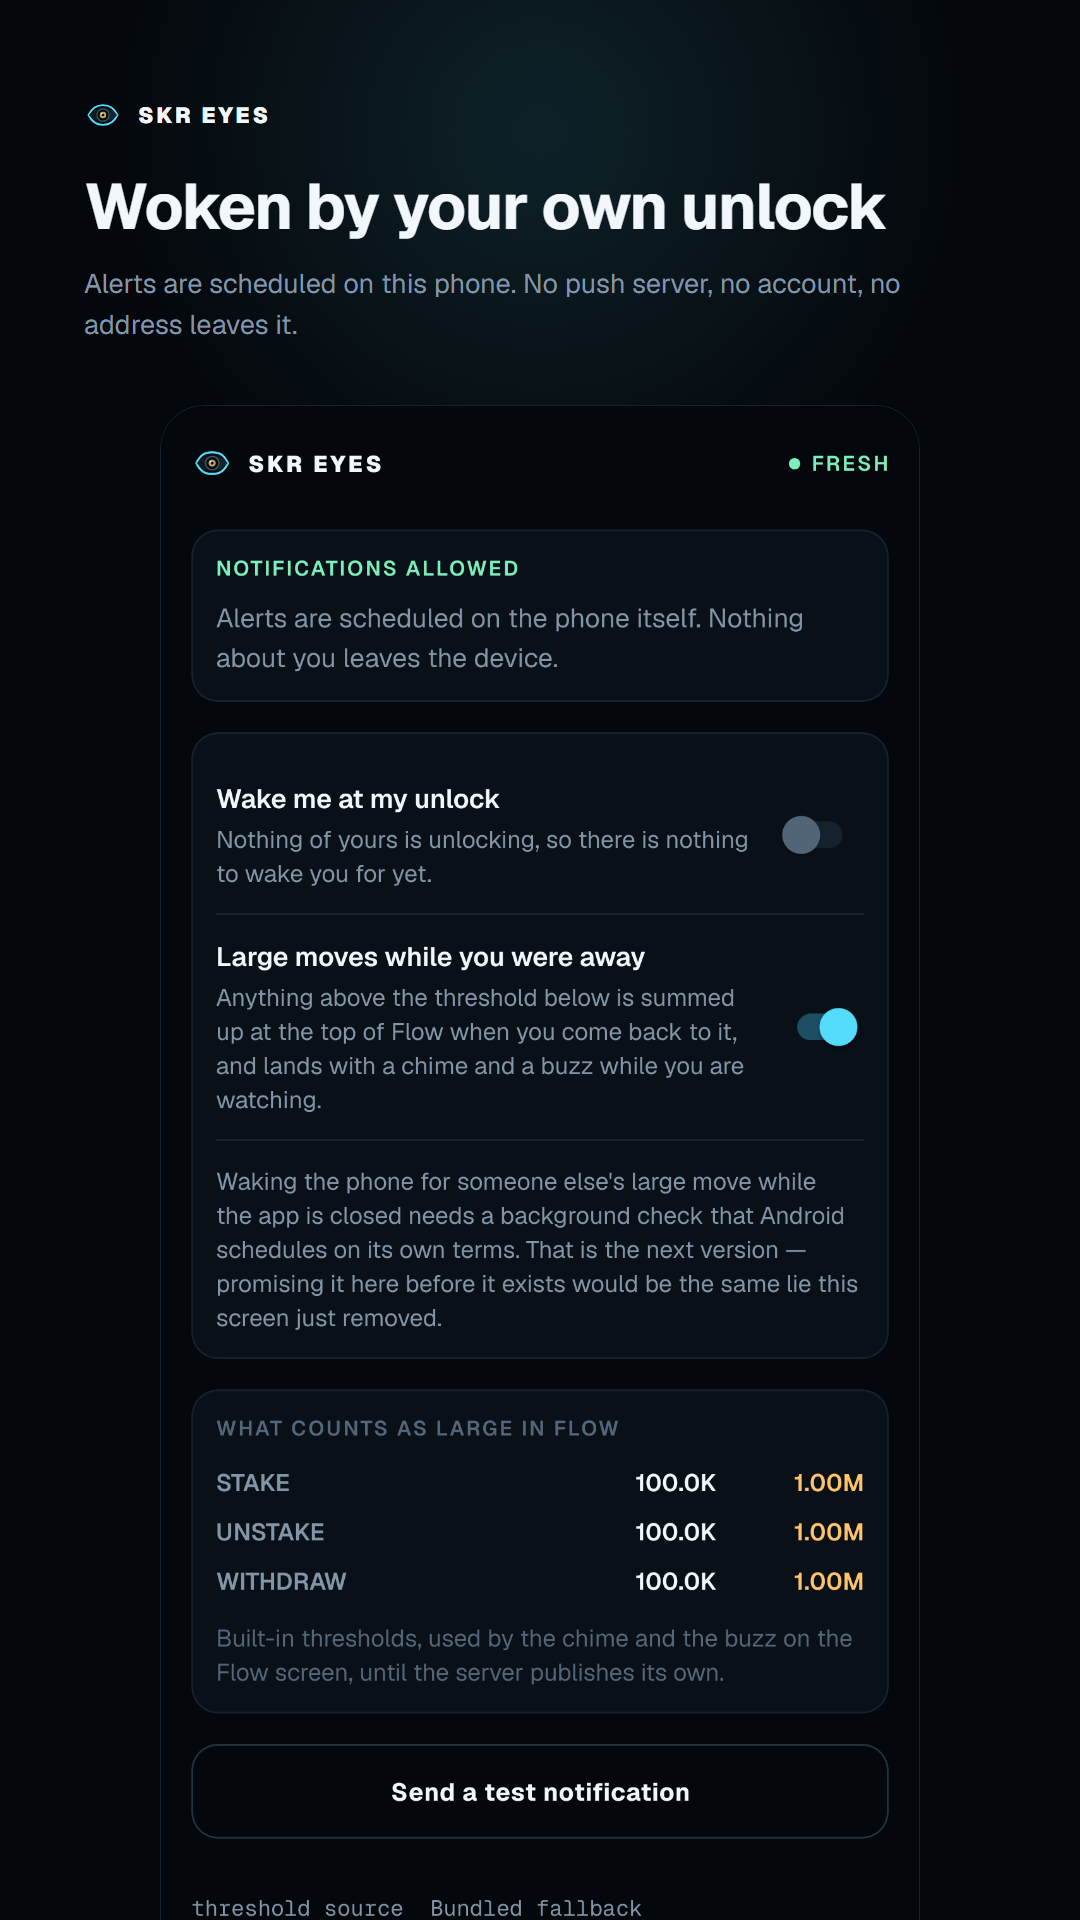
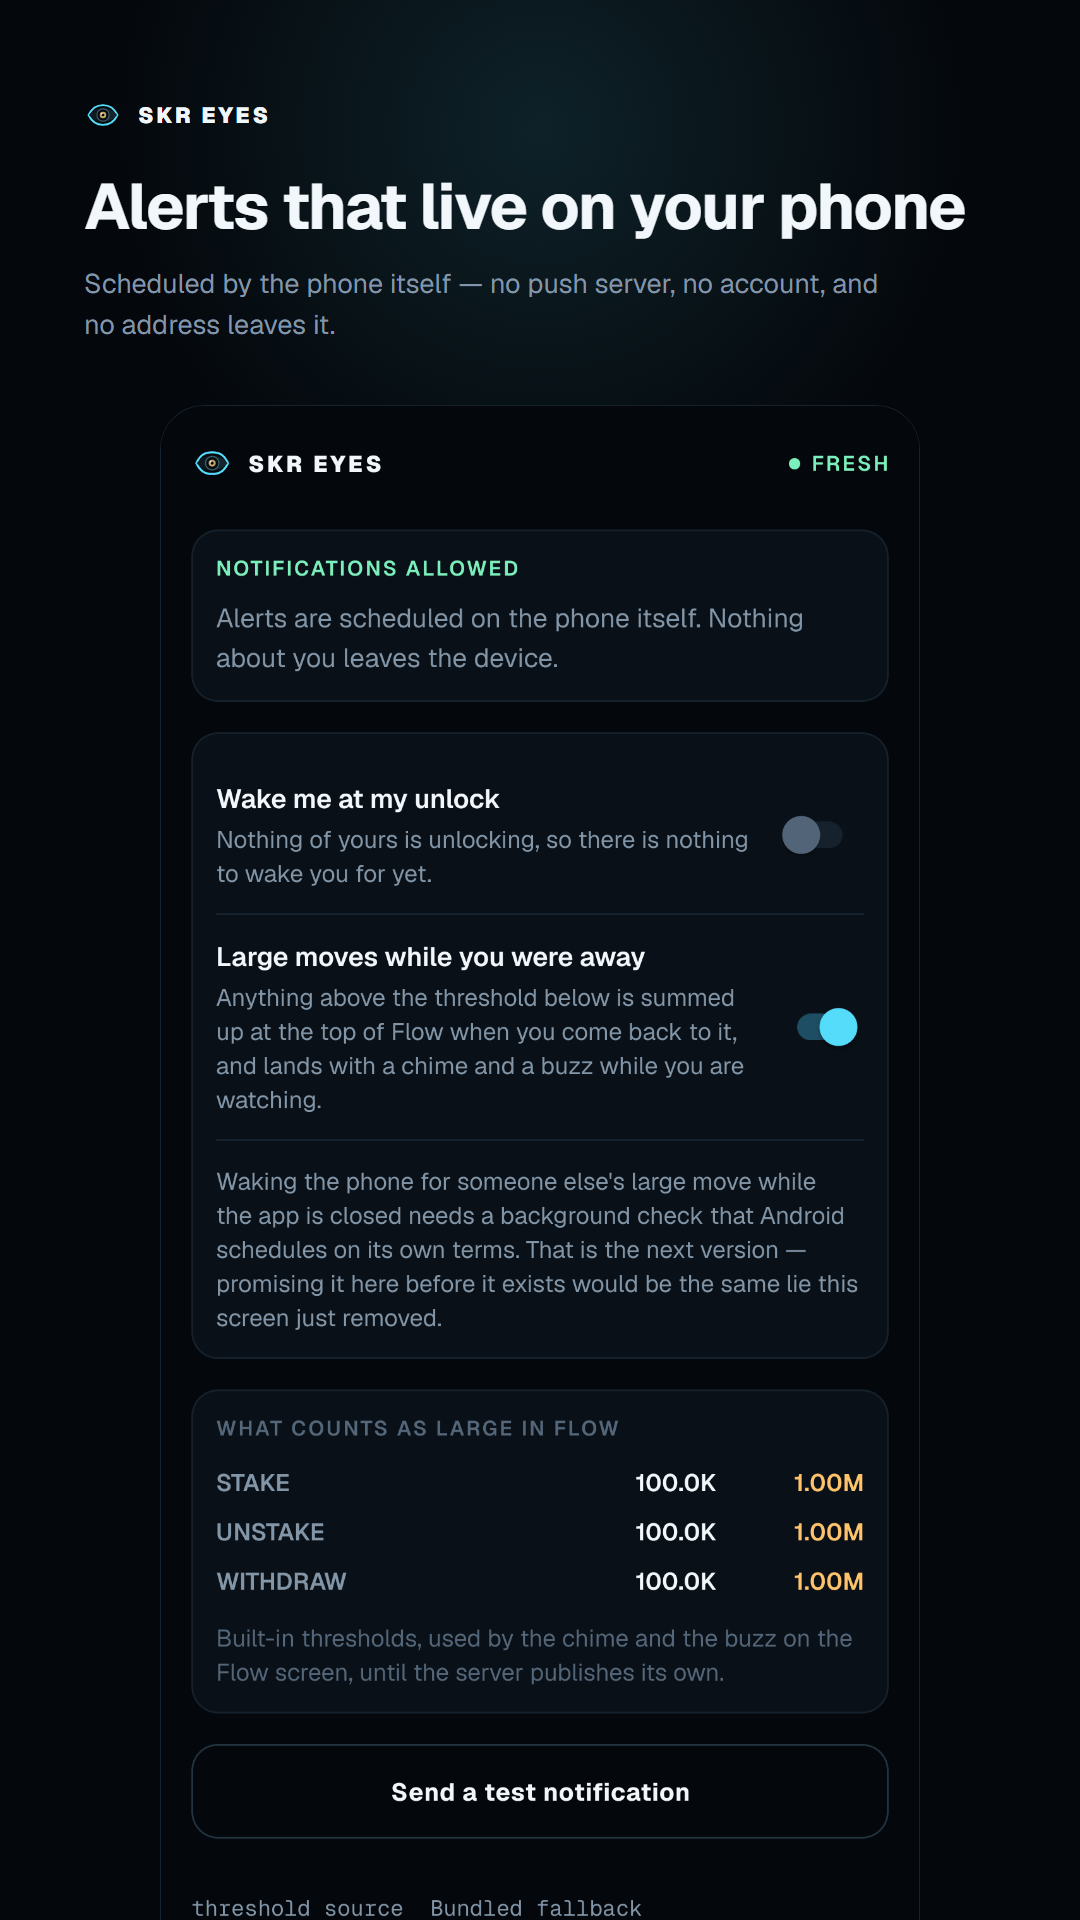
store: name the fifth screenshot for what it shows
The caption promised being woken while the picture showed the unlock switch
off, because nothing of this wallet's is unlocking. The screen's real subject
is that the alerts are scheduled by the phone and nothing leaves it, so the
caption says that instead.

Changed region(s): [[0.0611, 0.0938, 0.8861, 0.1875]]

diff --git a/store/make-media.py b/store/make-media.py
@@ -168,8 +168,8 @@ SHOTS = [
      "What you hold, how long you have held it, your weight in the vault — and Stake SKR."),
     ("cap-queue.png", "What is leaving, and when",
      "The 48 hour exit queue, soonest first, so a wave never arrives as a surprise."),
-    ("cap-alerts.png", "Woken by your own unlock",
-     "Alerts are scheduled on this phone. No push server, no account, no address leaves it."),
+    ("cap-alerts.png", "Alerts that live on your phone",
+     "Scheduled by the phone itself — no push server, no account, and no address leaves it."),
 ]
 
 
